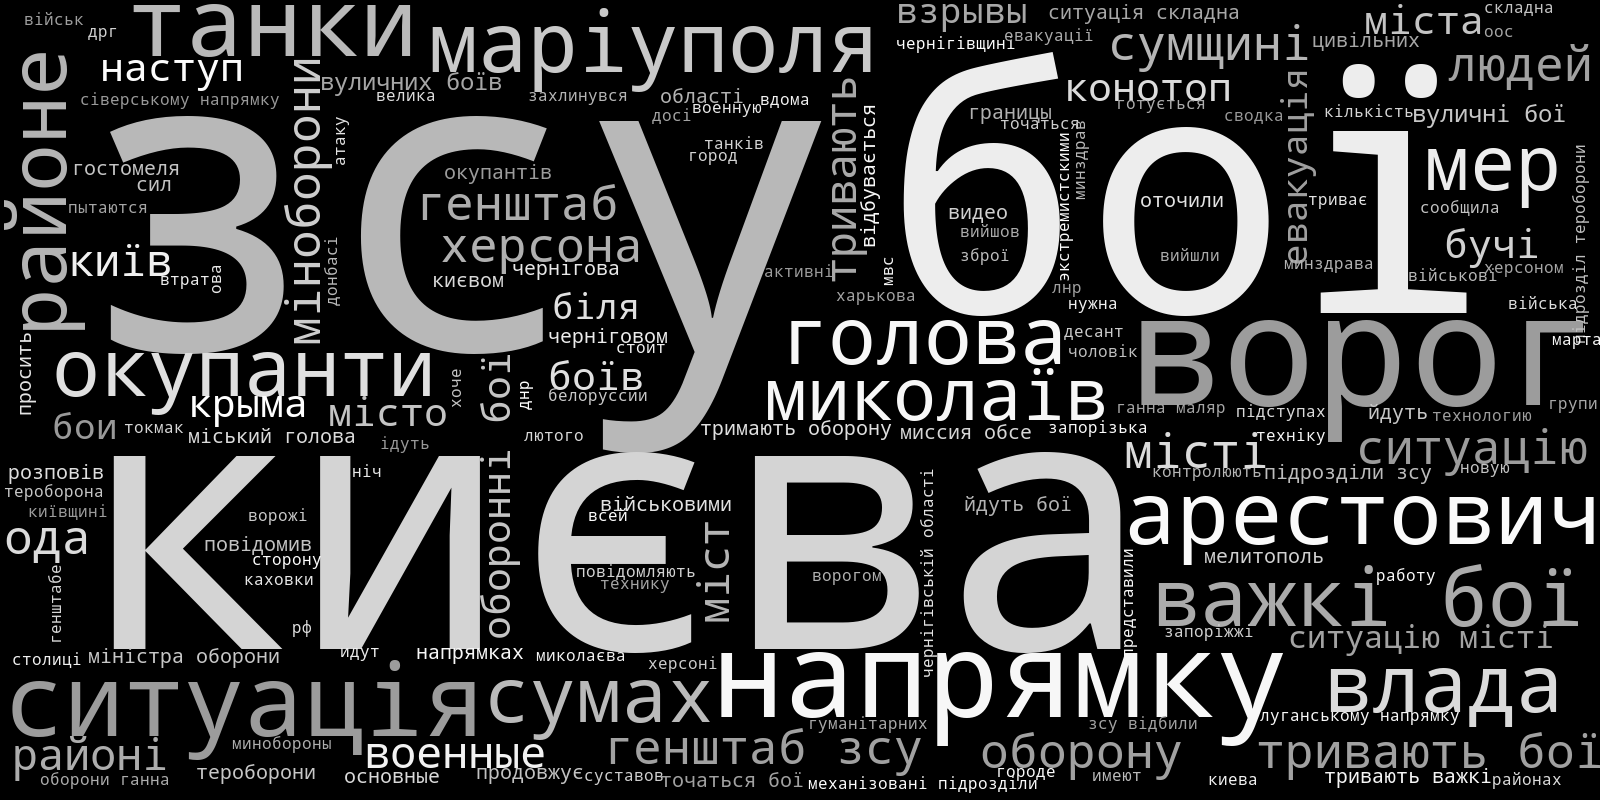
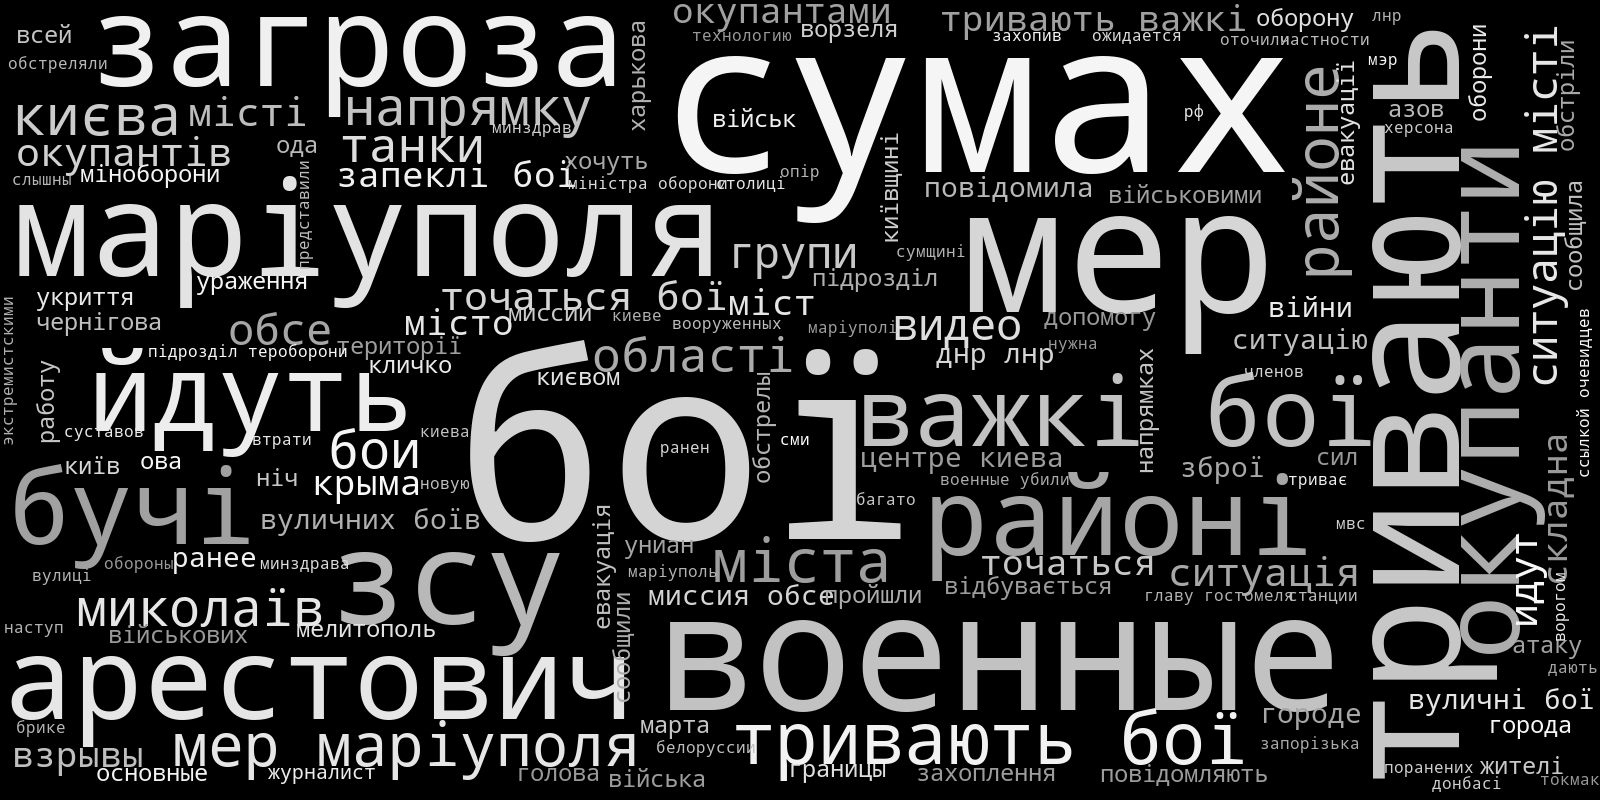
Updated wordclouds

diff --git a/README.md b/README.md
@@ -89,6 +89,7 @@ The data currently include the following event categories:
 - a_rus_pred: Event initiated by Russian or Russian-aligned armed forces
 - a_ukr_pred: Event initiated by Ukrainian or Ukrainian-aligned armed forces
 - a_other_pred: Event initiated by a third party (e.g. U.S., EU, Red Cross)
+- t_aad_pred: Anti-air defense, Buk, shoulder-fired missiles (Igla, Strela, Stinger)
 - t_airstrike_pred: Air strike, strategic bombing, helicopter strike
 - t_armor_pred: Tank battle or assault
 - t_arrest_pred: Arrest by security services or detention of prisoners of war
@@ -96,6 +97,7 @@ The data currently include the following event categories:
 - t_control_pred: Establishment/claim of territorial control over population center
 - t_firefight_pred: Any exchange of gunfire with handguns, semi-automatic rifles, automatic rifles, machine guns, rocket-propelled grenades (RPGs)
 - t_ied_pred: Improvised explosive device, roadside bomb, landmine, car bomb, explosion 
+- t_raid_pred: Assault/attack by paratroopers or special forces, usually followed by a retreat
 - t_milcas_pred: Event report mentions military casualties
 - t_civcas_pred: Event report mentions civilian casualties"    "t_nmil_pred" 
 
@@ -135,9 +137,17 @@ A quick guide to what some the words mean:
 
 ![wc_t_mil_test](Figures/WC/wc_t_san_test.png)
 
-- "санкції" (sanktsii) means "sanctions"
+- "санкції" (sanktsiyi) means "sanctions"
 - "сша" (ssha) means USA
 - there are also terms here for sanctions related to SWIFT, Visa, MasterCard
+
+
+### Anti-air defense (t_aad_pred)
+
+![wc_t_mil_test](Figures/WC/wc_t_aad_test.png)
+
+- "збили" (zbyly) means "show down"
+- "літак" (litak) means "aircraft"
 
 
 ### Air strikes (t_airstrike_pred)
@@ -187,6 +197,15 @@ A quick guide to what some the words mean:
 - "обстріл" (obstril) means "shelling"
 - "ракети" (rakety) means "rockets"
 - "заявили днр" (zayavili dnr) means "DNR has claimed" (i.e. allegations of shelling by UA forces in Donbas)
+
+
+### Raid (t_raid_pred)
+
+![wc_t_mil_test](Figures/WC/wc_t_raid_test.png)
+
+- "наступ" (nastup) means "advance/offensive"
+- "діверсантів" (diversantiv) means "of saboteurs/diversionary units"
+- "висадився десант" (vysadyvsya desant) means "paratroopers landed"
 
 
 ### Military casualties (t_milcas_pred)
